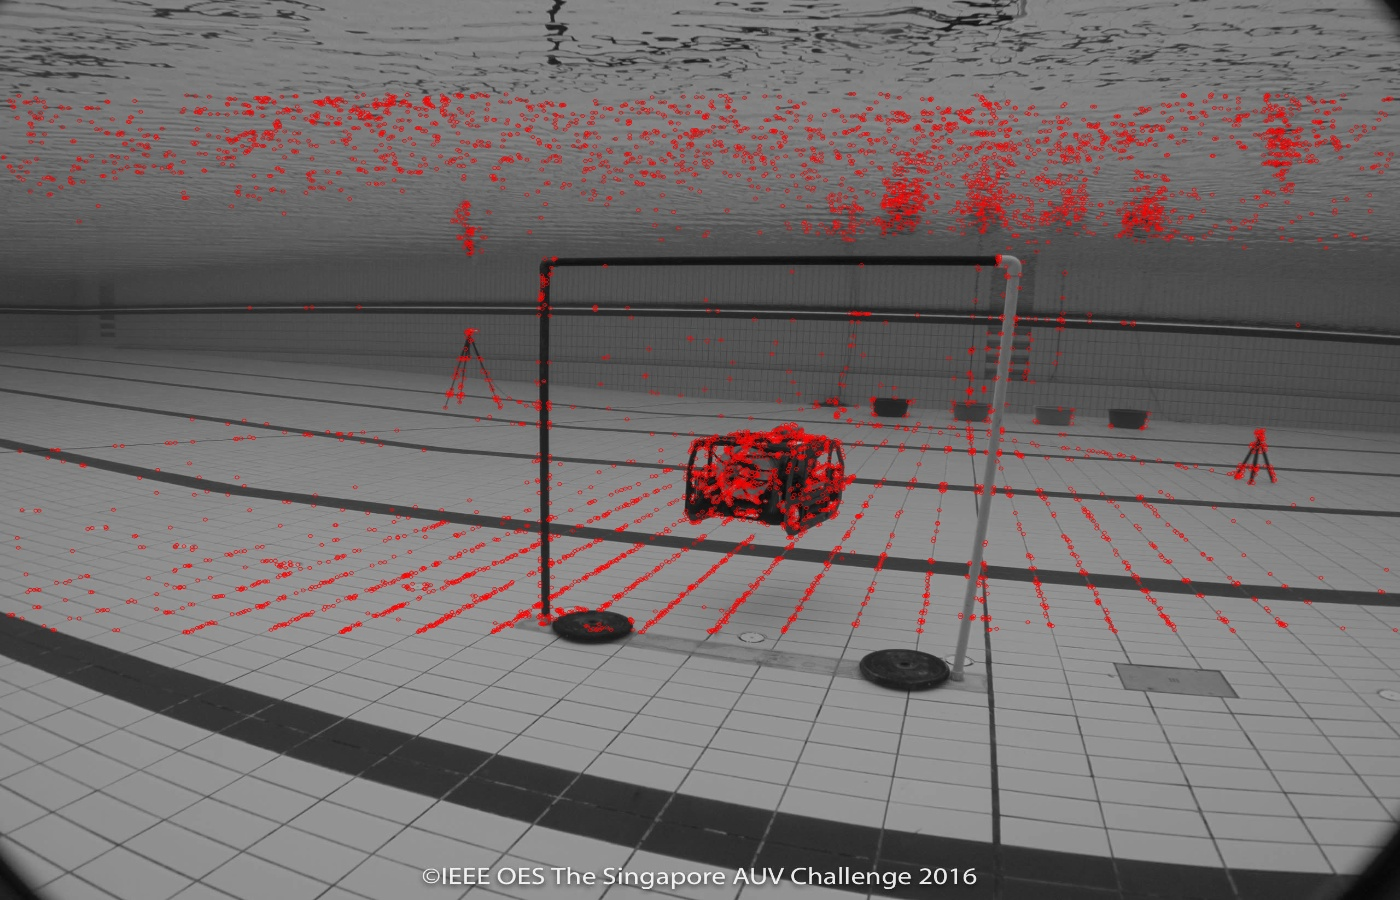
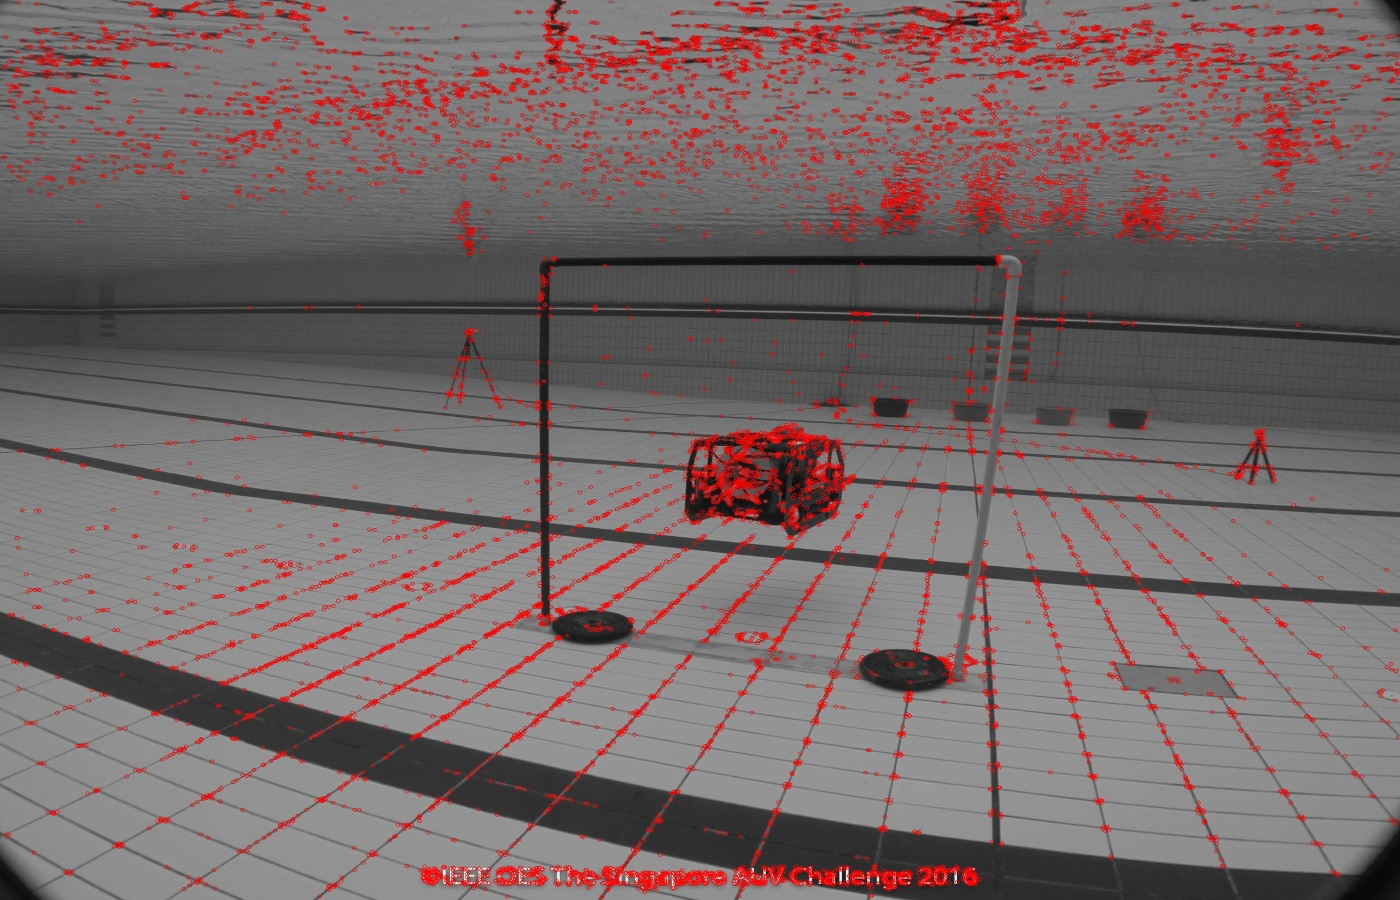
Added sample code for opencv's BRIEF and ORB

diff --git a/FAST/sample_FAST.py b/FAST/sample_FAST.py
@@ -1,23 +1,7 @@
 import cv2
 import numpy as numpy
 
-def get_colour_similarity (bgr, colour):
-    """
-    Input bgr, and see how similar it is to the input colour
-    returns 1 if colour is same, and the lower the number, the less similar
-    """
-    diff = 0
-    for i in range(0,3):
-        diff += (bgr[i] - colour[i]) ** 2
-    return 1 - diff ** (1/2) / (3 * 255 ** 2) ** (1/2)
-
 image = cv2.imread('gate.jpg')
-yellow = [0,255,255]
-for i in image:
-    for j in image:
-        pass
-
-print(image[0][0])
 gray = cv2.cvtColor(image, cv2.COLOR_BGR2GRAY)
 
 #create fast detector object
@@ -33,7 +17,7 @@ pts = cv2.KeyPoint_convert(keypoints)
 print(pts[0])
 
 # draw rich keypoints on input image
-image = cv2.drawKeypoints(gray, [keypoints[i] for i in range(int(num_kpts/2 - num_kpts/4), int(num_kpts/2 + num_kpts/4))], outImage=None, color=[0, 0, 255],flags=cv2.DRAW_MATCHES_FLAGS_DRAW_RICH_KEYPOINTS)
+image = cv2.drawKeypoints(gray, keypoints, outImage=None, color=[0, 0, 255],flags=cv2.DRAW_MATCHES_FLAGS_DRAW_RICH_KEYPOINTS)
 
 image = cv2.resize(image, (1400, 900))
 cv2.imwrite('FAST.jpg', image)

diff --git a/BRIEF/sample_BRIEF.py b/BRIEF/sample_BRIEF.py
@@ -1,0 +1,24 @@
+import cv2
+import numpy as np
+
+image = cv2.imread('gate.jpg')
+gray = cv2.cvtColor(image, cv2.COLOR_BGR2GRAY)
+
+# create FAST detector object
+fast = cv2.xfeatures2d.StarDetector_create()
+
+# create BRIF extractor object
+brief = cv2.xfeatures2d.BriefDescriptorExtractor_create()
+
+# Determine key points
+keypoints = fast.detect(gray, None)
+
+keypoints, descriptors = brief.compute(gray, keypoints)
+print(f"Number of keypoints Detected: {len(keypoints)}")
+
+image = cv2.drawKeypoints(image, keypoints, flags=cv2.DRAW_MATCHES_FLAGS_DRAW_RICH_KEYPOINTS, outImage=None, color=[0,0,255])
+
+image = cv2.resize(image, (1400, 900))
+cv2.imshow('BRIEF', image)
+cv2.waitKey()
+cv2.destroyAllWindows()

diff --git a/ORB/sample_ORB.py b/ORB/sample_ORB.py
@@ -1,0 +1,19 @@
+import cv2
+import numpy as np
+from matplotlib import pyplot as plt
+
+image = cv2.imread('../images/buckets.jpg', 0)
+
+# Initiate STAR detector
+orb = cv2.ORB_create()
+
+# Determine key points
+keypoints = orb.detect(image, None)
+
+keypoints, descriptors = orb.compute(image, keypoints)
+print(f"Number of keypoints Detected: {keypoints}")
+
+image = cv2.drawKeypoints(image, keypoints, flags=0, outImage=None, color=[0,0,255])
+
+plt.imshow(image)
+plt.savefig("mygraph.png")

diff --git a/README.md b/README.md
@@ -2,5 +2,5 @@
 ---
 
 Credits:
-Learn Computer Vision Using OpenCV With Deep Learning CNNs and RNNs - Sunila Gollapudi
+- Learn Computer Vision Using OpenCV With Deep Learning CNNs and RNNs - Sunila Gollapudi
 
